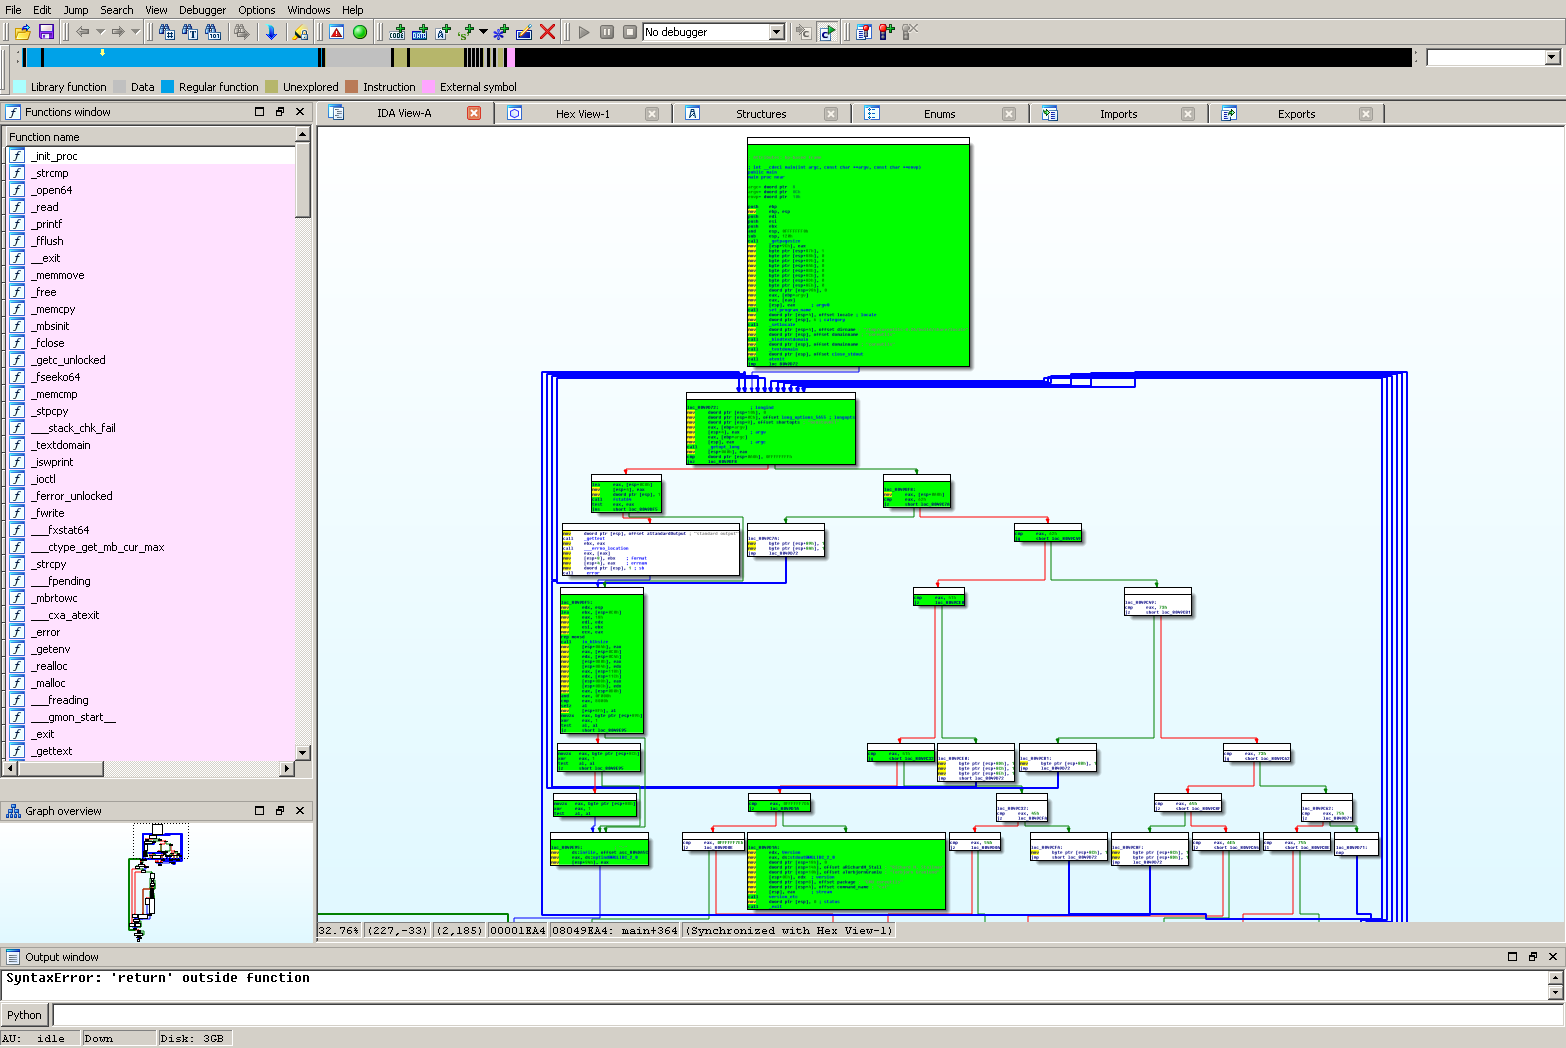
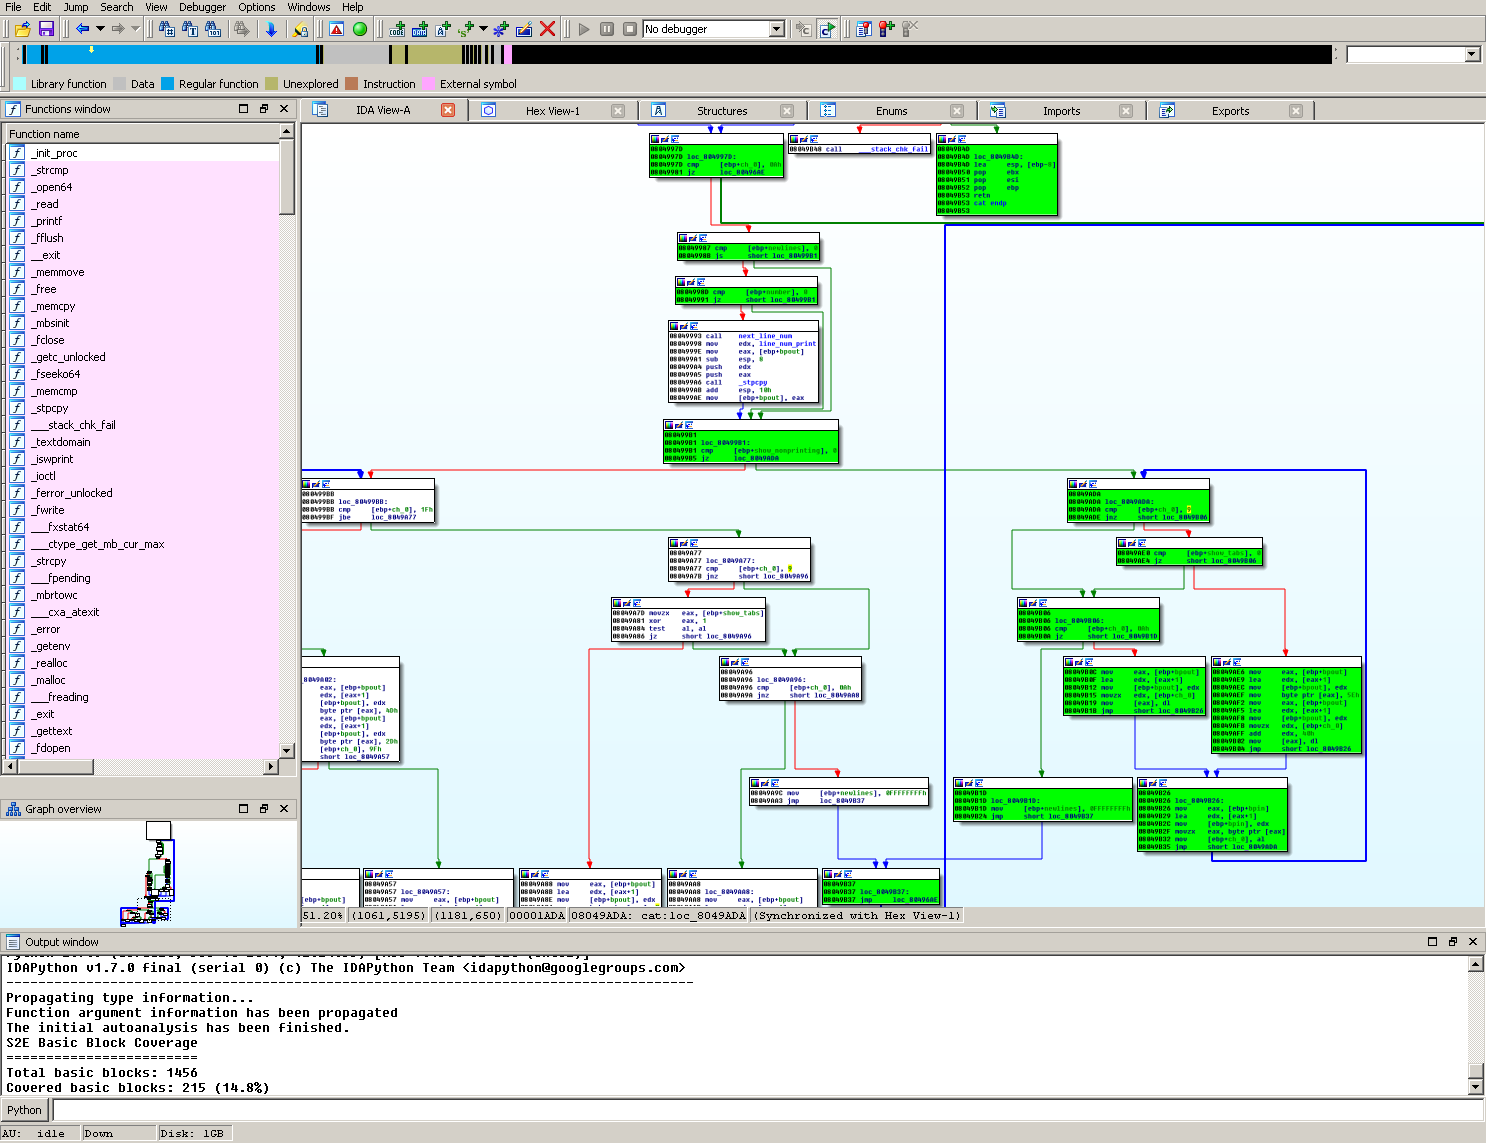
coreutils: specify `-T` option

diff --git a/src/Tutorials/Coreutils.rst b/src/Tutorials/Coreutils.rst
@@ -37,10 +37,14 @@ image (from ``linux-4.9.3-i386``). Once you have an image you can create your pr
 
 .. code-block:: console
 
-    s2e new_project --image debian-8.7.1-i386 /path/to/coreutils-8.26/build/bin/cat @@
+    s2e new_project --image debian-8.7.1-i386 /path/to/coreutils-8.26/build/bin/cat -T @@
 
 The ``@@`` symbol tells ``s2e-env`` to generate a bootstrap file that will run ``cat`` with a symbolic file as input.
 By default this symbolic file will be a 256 byte file filled with ``null`` bytes.
+
+The ``-T`` option forces ``cat`` to display TAB characters (0x09). This is important because it forces ``cat`` to read
+the symbolic values and fork two states - one state for the character being a TAB and another state for a character
+being a non-TAB.
 
 For testing ``cat`` we will have to modify this symbolic file slightly. Instead of having the symbolic file filled with
 ``null`` bytes, we will add some actual text to the file to make it more representative of using ``cat``. Open
@@ -59,7 +63,7 @@ These logs are saved as JSON files when the ``writeCoverageOnStateKill`` option 
 These JSON files will be used to produce the basic block and line coverage summary.
 
 You can then run S2E with the ``launch-s2e.sh`` script. You may wish to leverage multi-process mode by setting
-``S2E_MAX_PROCESSES=XX`` in ``launch-s2e.sh``. Let S2E run for approximately five minutes before stopping it (e.g. via
+``S2E_MAX_PROCESSES=XX`` in ``launch-s2e.sh``. Let S2E run for a few minutes minutes before stopping it (e.g. via
 ``killall -9 qemu-system-i386``).
 
 Generate line coverage
@@ -110,39 +114,39 @@ which is shown below.
     {
         "coverage": [
             {
-                "end_addr": 134521719,
-                "function": "main",
-                "start_addr": 134521716
+                "end_addr": 134516923,
+                "function": "__do_global_dtors_aux",
+                "start_addr": 134516916
             },
             {
-                "end_addr": 134520335,
-                "function": "main",
-                "start_addr": 134520309
+                "end_addr": 134516165,
+                "function": ".__fpending",
+                "start_addr": 134516160
             },
             {
-                "end_addr": 134534133,
-                "function": "atexit",
-                "start_addr": 134534128
+                "end_addr": 134515758,
+                "function": ".init_proc",
+                "start_addr": 134515754
             },
             {
-                "end_addr": 134522543,
+                "end_addr": 134516940,
+                "function": "frame_dummy",
+                "start_addr": 134516939
+            },
+            {
+                "end_addr": 134522228,
                 "function": "set_program_name",
-                "start_addr": 134522536
+                "start_addr": 134522217
             },
             {
-                "end_addr": 134522670,
-                "function": "set_program_name",
-                "start_addr": 134522653
-            },
-            {
-                "end_addr": 134528828,
-                "function": "safe_write",
-                "start_addr": 134528823
+                "end_addr": 134533853,
+                "function": "fstat64",
+                "start_addr": 134533830
             }
         ],
         "stats": {
-            "covered_basic_blocks": ...,
-            "total_basic_blocks": ...,
+            "covered_basic_blocks": 215,
+            "total_basic_blocks": 1456
         }
     }
 
@@ -155,6 +159,11 @@ S2E will be colored green. Depending on how long you let S2E run for and how man
 should get a graph similar to the following:
 
 .. image:: ../img/ida_cat_coverage.png
+
+Examining the debug log in ``s2e-last/debug.txt`` you should see a fork at address 0x8049ADE. If you look at this
+address in IDA Pro, you should see a ``cmp [ebp+ch_0], 9]`` at the previous instruction (address 0x8049ADA). This is
+``cat`` checking if the current character is a TAB or not (as previously mentioned the ASCII value for TAB is 0x09).
+Because the file contains symbolic data, a fork will occur at the ``jnz`` instruction.
 
 Similarly, Radare can be used to annotate the basic blocks covered by S2E with `metadata
 <https://radare.gitbooks.io/radare2book/content/disassembling/adding_metadata.html>`_. This script can be found at
